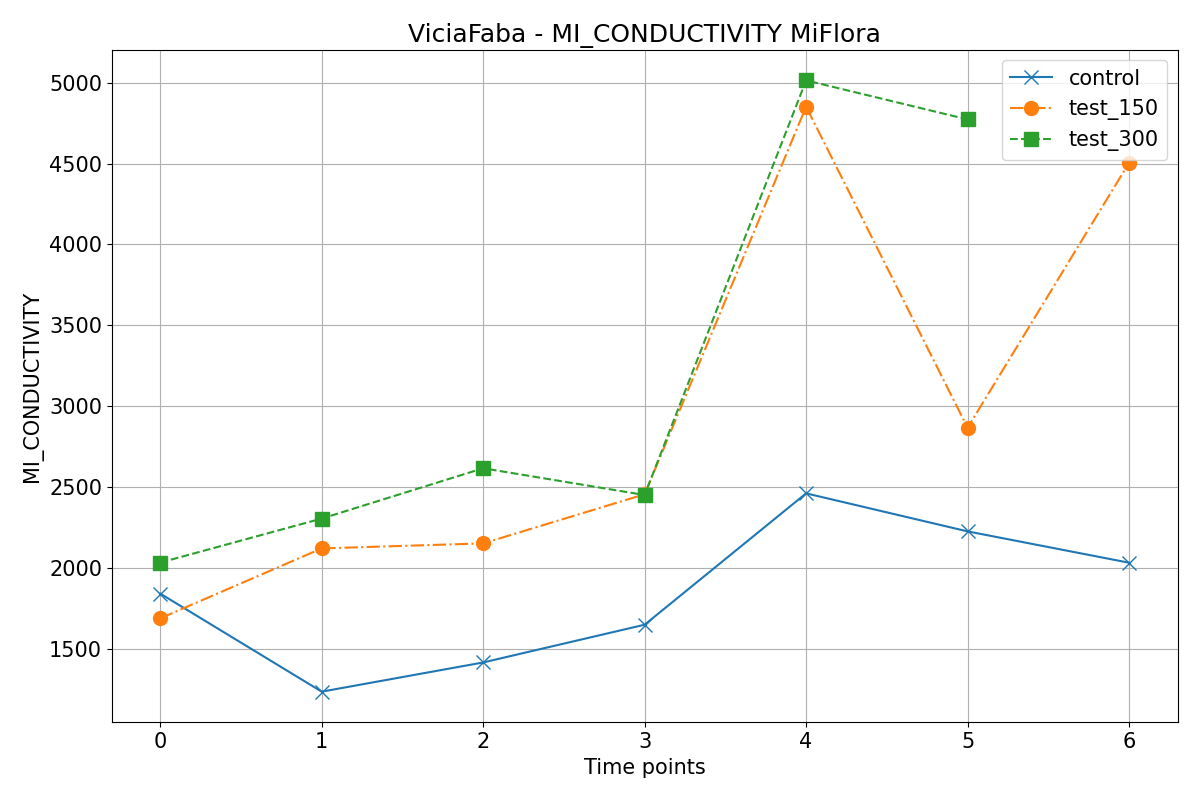
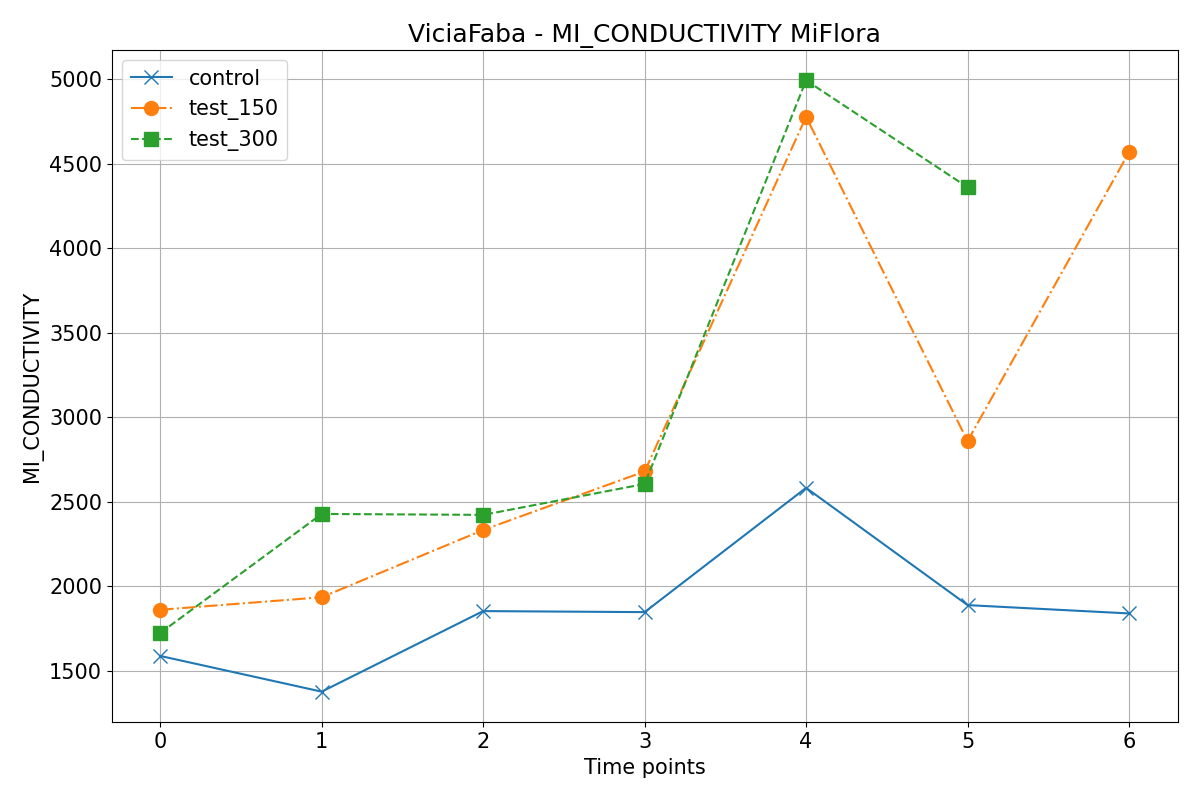
Update plot

diff --git a/analysis_script/calibration/plot_all.py b/analysis_script/calibration/plot_all.py
@@ -7,7 +7,7 @@ from library import manage_data_beans, preprocess
 
 # - - - - - - - - - - - - - - - - - - - - - - - - - - - - - - - - - 
 
-threshold = 1000
+threshold = 0
 
 remove_mean = False
 
